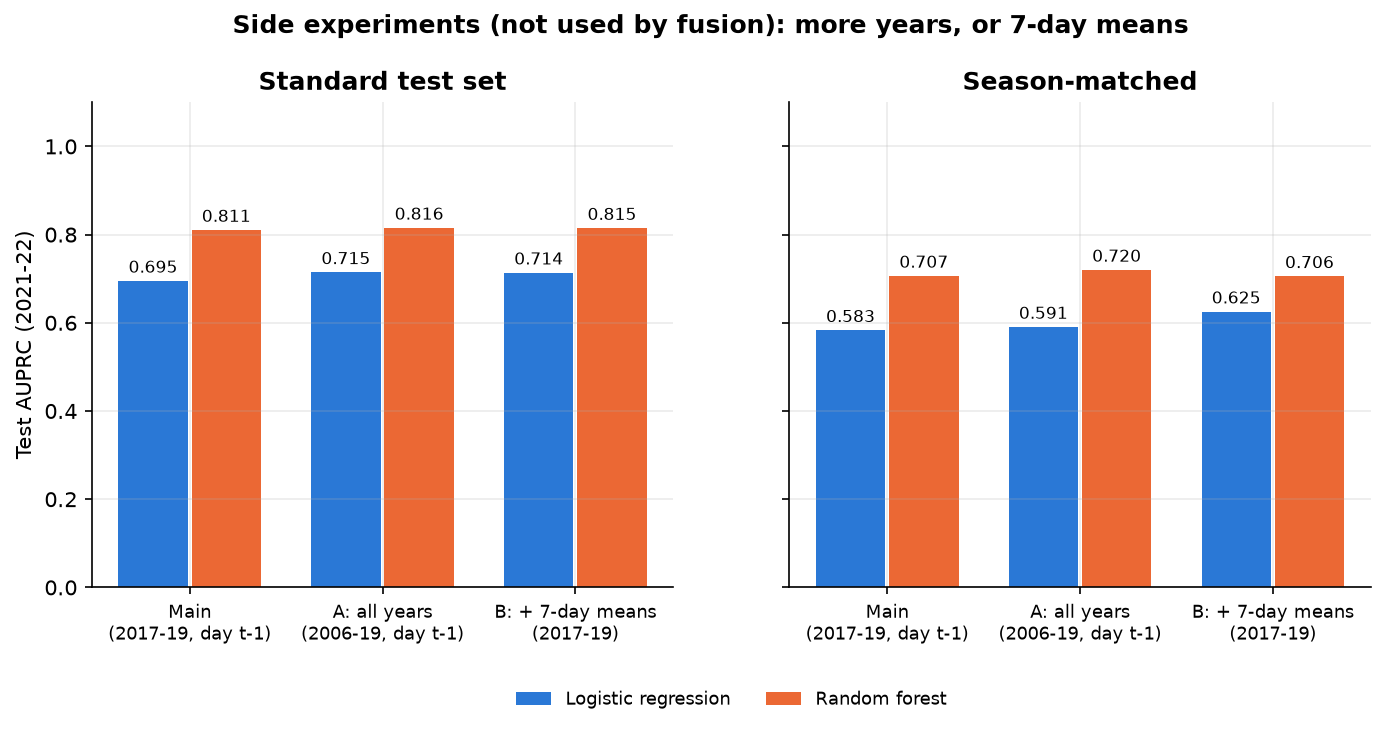
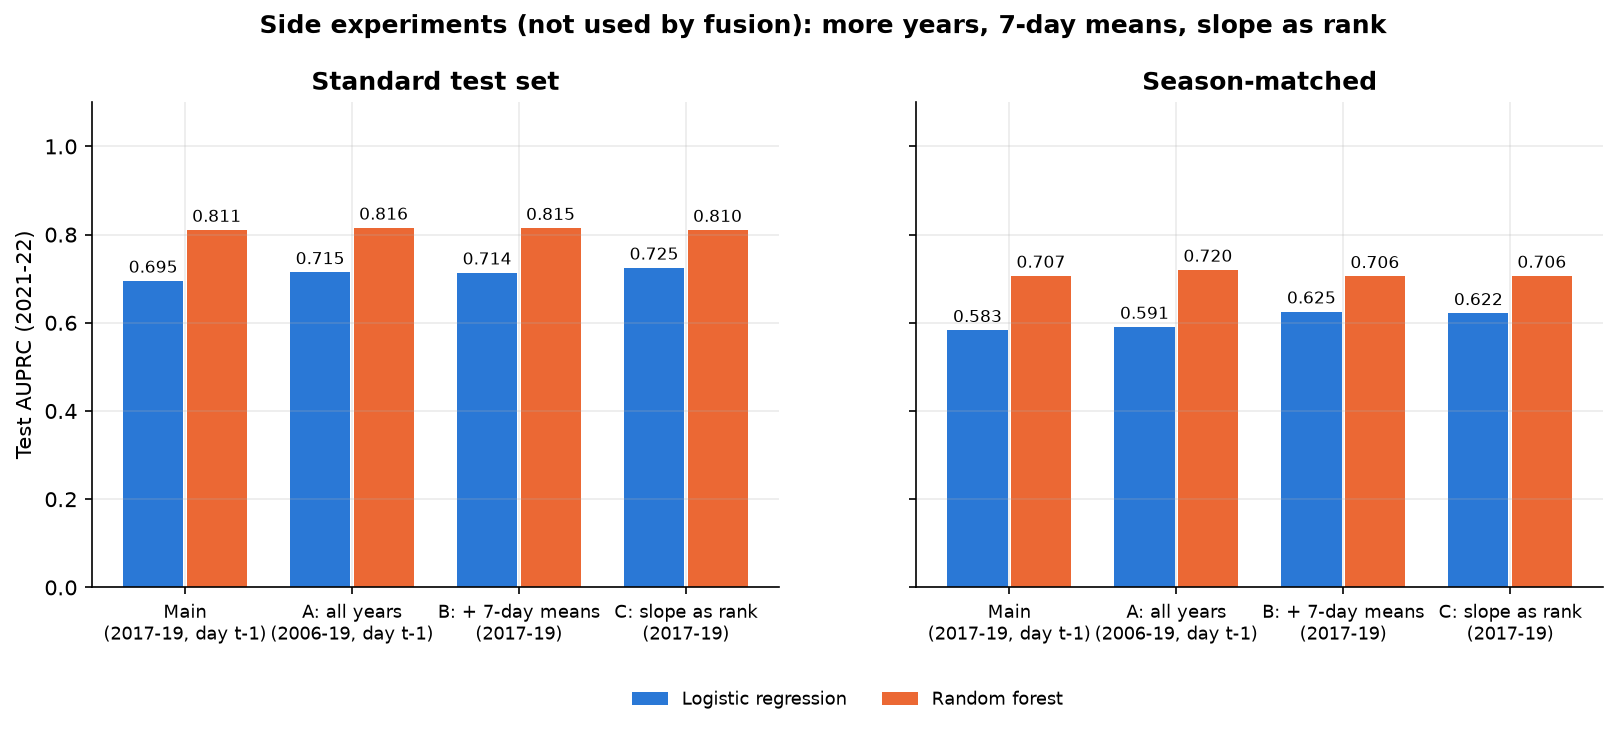
Tabular report: results of side experiment C (slope as rank)
LR 0.695 -> 0.725 AUPRC (season-matched 0.583 -> 0.622); RF unchanged (0.810 vs 0.811,
same CV AUPRC). Main pipeline keeps slope as given; this quantifies the limitation.
Rows of the main models and experiments A and B reproduce exactly.

diff --git a/reports/tabular/README.md b/reports/tabular/README.md
@@ -405,7 +405,7 @@ inputs, so mild mis-calibration is acceptable.
 > These are extra "what if" experiments for the discussion section of the report. Their models
 > are **not saved and are not used by the fusion model**; `predictions.csv` contains only the
 > main models above. Code: `src/forest_fire_risk/side_experiments.py`, results:
-> `side_experiments.csv`. Both are scored on exactly the same 2021-22 test samples as the main
+> `side_experiments.csv`. All are scored on exactly the same 2021-22 test samples as the main
 > models.
 
 - **A. All training years.** Train on every Track A year 2006-2019 (19,504 samples, tabular only,
@@ -416,16 +416,22 @@ inputs, so mild mis-calibration is acceptable.
   (days t-7 to t-1, 40 features). *Question: does the build-up before the fire (the EDA showed
   fire and non-fire conditions drift apart over the last ~10 days) add signal beyond day t-1
   alone?* Tuned from scratch with the same grids and cross-validation.
+- **C. Slope as rank.** Replace `slope` (mis-scaled in Mesogeos, almost all values in 1.44-1.57)
+  by its rank among the 2017-19 training samples (0 = flattest, 1 = steepest; fitted on train
+  only). *Question: does the odd scale hurt the logistic regression?* The rank keeps the order,
+  and a tree only uses the order, so the random forest should not change. Same hyperparameters
+  as the main models.
 
 ![Side experiments](figures/10_side_experiments.png)
 
-**Figure 10.** Test AUPRC of the main models and the two side experiments.
+**Figure 10.** Test AUPRC of the main models and the three side experiments.
 
 | | LR AUPRC | RF AUPRC | LR season-matched | RF season-matched |
 |---|---|---|---|---|
 | Main (2017-19, day t-1) | 0.695 | 0.811 | 0.583 | 0.707 |
 | A: all years (2006-19) | 0.715 | 0.816 | 0.591 | 0.720 |
 | B: + 7-day means | 0.714 | 0.815 | 0.625 | 0.706 |
+| C: slope as rank | 0.725 | 0.810 | 0.622 | 0.706 |
 
 **Findings.**
 - **A:** almost four times more training data barely moves the random forest (0.811 → 0.816)
@@ -436,6 +442,13 @@ inputs, so mild mis-calibration is acceptable.
   model a smoother "has it been hot and dry for a while" signal that it cannot build itself,
   while the forest already extracts that information from the day t-1 values and their
   interactions.
+- **C:** the rank version of `slope` lifts **logistic regression** from 0.695 to 0.725
+  (season-matched 0.583 → 0.622), while the random forest stays where it was (0.810 vs 0.811,
+  same CV AUPRC 0.775). The linear model needs a feature whose *values* are meaningful; the
+  mis-scaled slope squeezes almost all cells into a narrow band near its maximum, so a single
+  coefficient fits it badly. The forest only needs the *order*, which the rank keeps. (The tiny
+  RF change comes from test values that fall between two training values sharing a rank.)
+  The main pipeline keeps `slope` as given, as agreed; this only quantifies the limitation.
 
 ## 12. Hand-off to the fusion model
 
